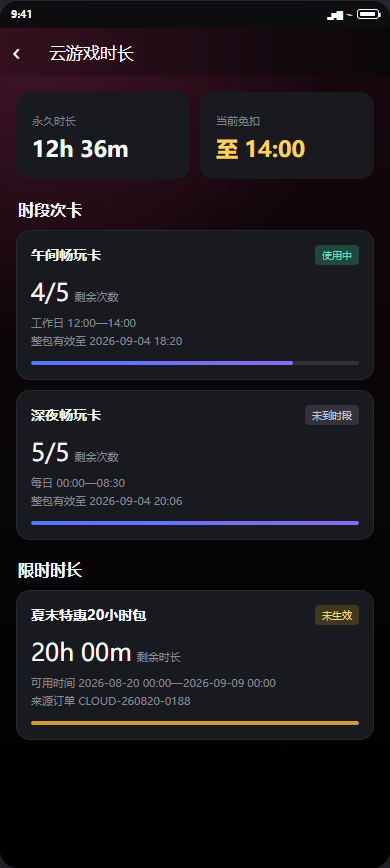
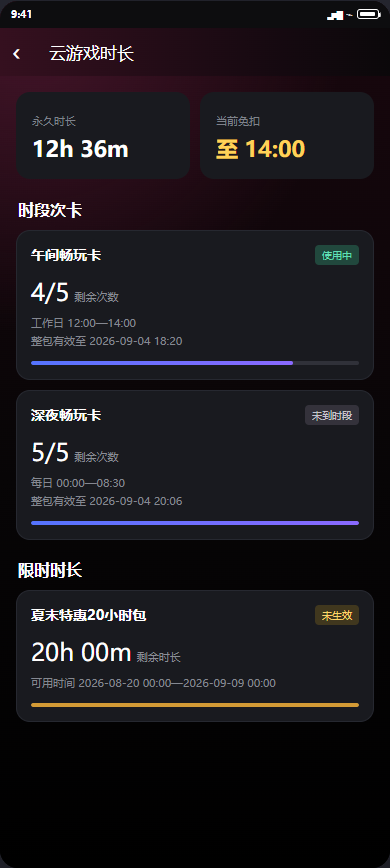
fix: deduct cloud time by user without order binding

Changed region(s): [[0.0308, 0.7776, 0.9538, 0.871]]

diff --git a/demos/云游戏/云游戏时段次卡与限时套餐demo.html b/demos/云游戏/云游戏时段次卡与限时套餐demo.html
@@ -53,7 +53,7 @@ button{cursor:pointer}
 .admin-modal-mask{position:absolute;inset:0;background:rgba(18,25,34,.48);z-index:30;display:flex;align-items:center;justify-content:center}.admin-modal{width:720px;max-height:680px;background:#fff;border-radius:7px;box-shadow:0 22px 70px rgba(0,0,0,.25);overflow:hidden;display:flex;flex-direction:column}.admin-modal.narrow{width:640px}.modal-head{height:52px;border-bottom:1px solid #e8ebef;display:flex;align-items:center;padding:0 20px}.modal-head h2{font-size:15px}.modal-x{margin-left:auto;border:0;background:transparent;font-size:20px;color:#87919c}.modal-body{padding:17px 20px;overflow:auto}.modal-grid{display:grid;grid-template-columns:1fr 1fr;gap:14px 18px}.modal-grid .span2{grid-column:1/-1}.modal-field label{display:block;font-size:11px;color:#5d6874;margin-bottom:6px}.required:before{content:'*';color:#ef5350;margin-right:3px}.help{font-size:10px;color:#929ba5;margin-top:4px;line-height:15px}.week-row{display:flex;gap:5px}.week{height:28px;min-width:37px;padding:0 7px;border:1px solid #d9dee5;border-radius:4px;background:#fff;color:#68737e;font-size:10px}.week.active{border-color:#3478f6;color:#3478f6;background:#eef5ff}.inline-inputs{display:flex;align-items:center;gap:7px}.inline-inputs .admin-input{flex:1}.modal-foot{height:58px;border-top:1px solid #e8ebef;display:flex;justify-content:flex-end;align-items:center;gap:9px;padding:0 20px}.section-line{grid-column:1/-1;font-size:12px;font-weight:600;color:#34414e;padding-top:2px;padding-bottom:2px;border-bottom:1px solid #eef0f2}.info-strip{grid-column:1/-1;background:#f3f7ff;border:1px solid #dce8ff;border-radius:5px;padding:9px 11px;color:#55708e;font-size:10px;line-height:16px}
 
 /* 后台用户时长 */
-.user-card{display:flex;align-items:center;padding:14px 16px;margin-bottom:12px}.user-card .avatar{width:38px;height:38px}.user-name{margin-left:10px}.user-name strong{font-size:13px}.user-name span{display:block;font-size:10px;color:#89939e;margin-top:3px}.metric-row{margin-left:auto;display:flex;gap:34px}.metric span{display:block;font-size:10px;color:#8b95a0}.metric strong{font-family:var(--number);font-size:18px;margin-top:3px;display:block}.record-table td{height:52px}.disabled-link{color:#adb4bc}.deduct-modal .record-summary{display:grid;grid-template-columns:1fr 1fr;gap:9px;background:#f7f8fa;border-radius:5px;padding:12px;margin-bottom:14px}.summary-item span{display:block;color:#8b95a0;font-size:10px}.summary-item strong{font-size:12px;margin-top:4px;display:block}.error-text{display:none;color:#e64e4e;font-size:10px;margin-top:4px}
+.user-card{display:flex;align-items:center;padding:14px 16px;margin-bottom:12px}.user-card .avatar{width:38px;height:38px}.user-name{margin-left:10px}.user-name strong{font-size:13px}.user-name span{display:block;font-size:10px;color:#89939e;margin-top:3px}.metric-row{margin-left:auto;display:flex;gap:34px}.metric>span{display:block;font-size:10px;color:#8b95a0}.metric-value{display:flex;align-items:center;gap:8px;margin-top:3px}.metric strong{font-family:var(--number);font-size:18px;display:block}.metric-action{border:0;background:transparent;color:#3478f6;font-size:10px}.record-table td{height:52px}.disabled-link{color:#adb4bc}.deduct-modal .record-summary{display:grid;grid-template-columns:1fr 1fr;gap:9px;background:#f7f8fa;border-radius:5px;padding:12px;margin-bottom:14px}.summary-item span{display:block;color:#8b95a0;font-size:10px}.summary-item strong{font-size:12px;margin-top:4px;display:block}.error-text{display:none;color:#e64e4e;font-size:10px;margin-top:4px}
 .admin-logo{padding:0 16px;font-size:16px;white-space:nowrap}.admin-logo i{width:26px;height:26px;border-radius:7px;font-size:11px;margin-right:8px;flex:none}
 /* V6.1.1 真实页面复刻层 */
 #capture-c-recharge{height:867px;border-radius:18px;background:#090509 url('./assets/cloud-time-pack-v611/15-portrait-recharge.png') center/100% 100% no-repeat}
@@ -197,7 +197,7 @@ button{cursor:pointer}
           <div class="record-card"><div class="record-top"><h3>午间畅玩卡</h3><span class="state-pill">使用中</span></div><div class="record-amount">4/5<small>剩余次数</small></div><div class="record-meta">工作日 12:00—14:00<br>整包有效至 2026-09-04 18:20</div><div class="progress"><i style="width:80%"></i></div></div>
           <div class="record-card"><div class="record-top"><h3>深夜畅玩卡</h3><span class="state-pill wait">未到时段</span></div><div class="record-amount">5/5<small>剩余次数</small></div><div class="record-meta">每日 00:00—08:30<br>整包有效至 2026-09-04 20:06</div><div class="progress"><i style="width:100%"></i></div></div>
           <div class="list-title">限时时长</div>
-          <div class="record-card"><div class="record-top"><h3>夏末特惠20小时包</h3><span class="state-pill pre">未生效</span></div><div class="record-amount">20h 00m<small>剩余时长</small></div><div class="record-meta">可用时间 2026-08-20 00:00—2026-09-09 00:00<br>来源订单 CLOUD-260820-0188</div><div class="progress"><i style="width:100%;background:#d39a35"></i></div></div>
+          <div class="record-card"><div class="record-top"><h3>夏末特惠20小时包</h3><span class="state-pill pre">未生效</span></div><div class="record-amount">20h 00m<small>剩余时长</small></div><div class="record-meta">可用时间 2026-08-20 00:00—2026-09-09 00:00</div><div class="progress"><i style="width:100%;background:#d39a35"></i></div></div>
         </div>
       </div>
     </div>
@@ -291,18 +291,18 @@ button{cursor:pointer}
     <div class="admin-shell" id="capture-b-deduct">
       <aside class="admin-side"><div class="admin-logo"><i>GH</i>GameHub运营平台</div><div class="side-group">小鸡云游戏</div><div class="side-item"><span class="nav-icon">▤</span>新云游戏充值商品</div><div class="side-item active"><span class="nav-icon">◉</span>用户管理</div><div class="side-item"><span class="nav-icon">⌁</span>操作记录</div></aside>
       <div class="admin-main"><header class="admin-top"><span class="crumb">用户管理 / 用户详情 / 云游戏时长</span><div class="top-user"><span class="avatar">客</span><span>客服主管⌄</span></div></header><main class="admin-content">
-        <div class="page-title-row"><h1>扣除云游戏时长</h1><button class="a-btn" style="margin-left:auto">查看操作记录</button></div>
-        <div class="panel user-card"><span class="avatar">Q</span><div class="user-name"><strong>用户Q***8</strong><span>UID：21900048 · 国内竖版</span></div><div class="metric-row"><div class="metric"><span>永久时长</span><strong>12h 36m</strong></div><div class="metric"><span>限时时长</span><strong id="limitedTimeMetric">21h 42m</strong></div></div></div>
-        <div class="panel table-wrap"><table class="data-table record-table"><colgroup><col style="width:100px"><col style="width:150px"><col style="width:145px"><col style="width:92px"><col style="width:105px"><col style="width:170px"><col style="width:85px"><col style="width:80px"></colgroup><thead><tr><th>记录ID</th><th>套餐名称</th><th>来源订单</th><th>总时长</th><th>剩余时长</th><th>使用窗口</th><th>状态</th><th>操作</th></tr></thead><tbody>
-          <tr><td>LT-890121</td><td>夏末特惠20小时包</td><td>CLOUD-260820-0188</td><td>20小时</td><td id="deductListRemaining">18小时30分</td><td>08-20 00:00—09-09 00:00</td><td><span class="type-tag">可使用</span></td><td><button class="op-link" onclick="openDeduct()">扣除</button></td></tr>
-          <tr><td>LT-889430</td><td>周末限时2小时</td><td>CLOUD-260801-1036</td><td>2小时</td><td>1小时42分</td><td>08-06 00:00—08-08 00:00</td><td><span class="type-tag gold">使用中</span></td><td><span class="disabled-link">不可扣除</span></td></tr>
-          <tr><td>LT-872501</td><td>端午限时10小时</td><td>CLOUD-260605-0042</td><td>10小时</td><td>0</td><td>06-07 18:00—06-09 06:00</td><td><span class="type-tag">已过期</span></td><td><span class="disabled-link">—</span></td></tr>
+        <div class="page-title-row"><h1>用户云游戏时长</h1><button class="a-btn" style="margin-left:auto">查看操作记录</button></div>
+        <div class="panel user-card"><span class="avatar">Q</span><div class="user-name"><strong>用户Q***8</strong><span>UID：21900048 · 国内竖版</span></div><div class="metric-row"><div class="metric"><span>永久时长</span><div class="metric-value"><strong id="permanentTimeMetric">12小时36分</strong><button class="metric-action" onclick="openDeduct('permanent')">扣除</button></div></div><div class="metric"><span>限时时长</span><div class="metric-value"><strong id="limitedTimeMetric">20小时12分</strong></div></div></div></div>
+        <div class="panel table-wrap"><table class="data-table record-table"><colgroup><col style="width:115px"><col style="width:190px"><col style="width:110px"><col style="width:125px"><col style="width:210px"><col style="width:100px"><col style="width:90px"></colgroup><thead><tr><th>记录ID</th><th>套餐名称</th><th>总时长</th><th>剩余时长</th><th>使用窗口</th><th>状态</th><th>操作</th></tr></thead><tbody>
+          <tr><td>LT-890121</td><td>夏末特惠20小时包</td><td>20小时</td><td id="deductListRemaining">18小时30分</td><td>08-20 00:00—09-09 00:00</td><td><span class="type-tag">可使用</span></td><td><button class="op-link" onclick="openDeduct('limited')">扣除</button></td></tr>
+          <tr><td>LT-889430</td><td>周末限时2小时</td><td>2小时</td><td>1小时42分</td><td>08-06 00:00—08-08 00:00</td><td><span class="type-tag gold">使用中</span></td><td><span class="disabled-link">不可扣除</span></td></tr>
+          <tr><td>LT-872501</td><td>端午限时10小时</td><td>10小时</td><td>0</td><td>06-07 18:00—06-09 06:00</td><td><span class="type-tag">已过期</span></td><td><span class="disabled-link">—</span></td></tr>
         </tbody></table><div class="pagination">共 3 条，每页20条 <span class="page-no">1</span></div></div>
       </main></div>
-      <div class="admin-modal-mask" id="deductMask"><div class="admin-modal narrow deduct-modal"><div class="modal-head"><h2>扣除限时时长</h2><button class="modal-x" onclick="closeDeduct()">×</button></div><div class="modal-body"><div class="record-summary"><div class="summary-item"><span>用户UID</span><strong>21900048</strong></div><div class="summary-item"><span>限时时长记录</span><strong>LT-890121</strong></div><div class="summary-item"><span>套餐名称</span><strong>夏末特惠20小时包</strong></div><div class="summary-item"><span>当前剩余</span><strong id="deductSummaryRemaining">18小时30分</strong></div></div><div class="modal-grid">
-        <div class="modal-field"><label class="required">扣除分钟数</label><input class="admin-input" id="deductMinutes" value="60"><div class="help" id="deductHelp">正整数，不得超过1110分钟</div><div class="error-text" id="deductError">请输入1—1110的整数</div></div><div class="modal-field"><label class="required">原因类型</label><select class="admin-select" id="deductReason" onchange="updateDeductReason()"><option>退款回收</option><option>账号修正</option><option>违规处理</option><option>其他</option></select></div><div class="modal-field span2"><label class="required" id="relationLabel">关联订单号</label><input class="admin-input" id="relationNo" value="CLOUD-260820-0188"></div><div class="modal-field span2"><label id="noteLabel">补充说明</label><textarea class="admin-input" id="deductNote" style="height:72px;padding-top:8px;resize:none" placeholder="0—100字">活动订单退款，回收未使用时长</textarea><div class="error-text" id="noteError">选择“其他”时必须填写补充说明</div></div><div class="info-strip">提交时重新校验记录状态与余额。使用中记录不可扣除；与游戏消耗冲突时本次操作失败并刷新余额。</div>
+      <div class="admin-modal-mask" id="deductMask"><div class="admin-modal narrow deduct-modal"><div class="modal-head"><h2 id="deductModalTitle">扣除限时时长</h2><button class="modal-x" onclick="closeDeduct()">×</button></div><div class="modal-body"><div class="record-summary"><div class="summary-item"><span>用户UID</span><strong>21900048</strong></div><div class="summary-item"><span>时长类型</span><strong id="deductTypeValue">限时时长</strong></div><div class="summary-item"><span id="deductRecordLabel">限时时长记录</span><strong id="deductRecordValue">LT-890121</strong></div><div class="summary-item"><span>当前剩余</span><strong id="deductSummaryRemaining">18小时30分</strong></div></div><div class="modal-grid">
+        <div class="modal-field"><label class="required">扣除分钟数</label><input class="admin-input" id="deductMinutes" value="60"><div class="help" id="deductHelp">正整数，不得超过1110分钟</div><div class="error-text" id="deductError">请输入1—1110的整数</div></div><div class="modal-field"><label class="required">原因类型</label><select class="admin-select" id="deductReason" onchange="updateDeductReason()"><option>运营调整</option><option>账号修正</option><option>违规处理</option><option>其他</option></select></div><div class="modal-field span2"><label id="noteLabel">补充说明</label><textarea class="admin-input" id="deductNote" style="height:72px;padding-top:8px;resize:none" placeholder="0—100字">按用户时长进行调整</textarea><div class="error-text" id="noteError">选择“其他”时必须填写补充说明</div></div><div class="info-strip">提交时重新校验用户时长余额。限时时长使用中不可扣除；与游戏消耗冲突时本次操作失败并刷新余额。</div>
       </div></div><div class="modal-foot"><button class="a-btn" onclick="closeDeduct()">取消</button><button class="a-btn red" onclick="submitDeduct()">确认扣除</button></div></div></div>
-      <div class="admin-modal-mask" id="deductConfirmMask" style="display:none"><div class="admin-modal confirm-card"><div class="modal-head"><h2>确认扣除限时时长</h2><button class="modal-x" onclick="closeDeductConfirm()">×</button></div><div class="modal-body"><div class="confirm-symbol">!</div><div class="confirm-copy"><strong id="deductConfirmTitle">确认扣除60分钟？</strong><span>扣除后无法自动恢复，系统将记录操作人、原因和关联单号。</span></div></div><div class="modal-foot"><button class="a-btn" onclick="closeDeductConfirm()">返回修改</button><button class="a-btn red" onclick="confirmDeduct()">确认扣除</button></div></div></div>
+      <div class="admin-modal-mask" id="deductConfirmMask" style="display:none"><div class="admin-modal confirm-card"><div class="modal-head"><h2 id="deductConfirmHead">确认扣除限时时长</h2><button class="modal-x" onclick="closeDeductConfirm()">×</button></div><div class="modal-body"><div class="confirm-symbol">!</div><div class="confirm-copy"><strong id="deductConfirmTitle">确认扣除60分钟？</strong><span>扣除后无法自动恢复，系统将记录用户、时长类型、操作人和扣除原因。</span></div></div><div class="modal-foot"><button class="a-btn" onclick="closeDeductConfirm()">返回修改</button><button class="a-btn red" onclick="confirmDeduct()">确认扣除</button></div></div></div>
       <div class="toast" id="deductToast">已扣除60分钟，剩余17小时30分</div>
     </div>
   </section>
@@ -340,14 +340,14 @@ function configureProductMode(mode){var isQueue=mode==='queue';document.getEleme
 function openQueueConfig(){showScene('b-slot');configureProductMode('queue')}
 document.getElementById('slotProductType').addEventListener('change',function(){configureProductMode(this.value==='普通时长包'?'queue':'slot')});
 document.querySelectorAll('.week').forEach(function(btn){btn.addEventListener('click',function(){btn.classList.toggle('active')})});
-function openDeduct(){document.getElementById('deductMask').style.display='flex'}
+function openDeduct(type){currentDeductType=type||'limited';var isLimited=currentDeductType==='limited',max=isLimited?limitedMinutes:permanentMinutes;document.getElementById('deductModalTitle').textContent=isLimited?'扣除限时时长':'扣除永久时长';document.getElementById('deductConfirmHead').textContent=isLimited?'确认扣除限时时长':'确认扣除永久时长';document.getElementById('deductTypeValue').textContent=isLimited?'限时时长':'永久时长';document.getElementById('deductRecordLabel').textContent=isLimited?'限时时长记录':'时长账户';document.getElementById('deductRecordValue').textContent=isLimited?'LT-890121':'用户永久时长';document.getElementById('deductSummaryRemaining').textContent=formatMinutes(max);document.getElementById('deductHelp').textContent='正整数，不得超过'+max+'分钟';document.getElementById('deductMinutes').value=Math.min(60,max);document.getElementById('deductMask').style.display='flex'}
 function closeDeduct(){document.getElementById('deductMask').style.display='none'}
-var limitedMinutes=1110,pendingDeduct=0;
-function updateDeductReason(){var reason=document.getElementById('deductReason').value,isRefund=reason==='退款回收',isOther=reason==='其他';document.getElementById('relationLabel').textContent=isRefund?'关联订单号':'关联工单号';document.getElementById('relationNo').placeholder=isRefund?'请输入订单号':'请输入工单号';document.getElementById('noteLabel').className=isOther?'required':'';document.getElementById('noteError').style.display='none'}
+var permanentMinutes=756,limitedMinutes=1110,pendingDeduct=0,currentDeductType='limited';
+function updateDeductReason(){var isOther=document.getElementById('deductReason').value==='其他';document.getElementById('noteLabel').className=isOther?'required':'';document.getElementById('noteError').style.display='none'}
 function formatMinutes(v){var h=Math.floor(v/60),m=v%60;return h?(h+'小时'+(m?m+'分':'')):(m+'分钟')}
-function submitDeduct(){var input=document.getElementById('deductMinutes'),v=Number(input.value),err=document.getElementById('deductError'),note=document.getElementById('deductNote'),noteErr=document.getElementById('noteError'),relation=document.getElementById('relationNo');if(!Number.isInteger(v)||v<1||v>limitedMinutes){err.textContent='请输入1—'+limitedMinutes+'的整数';err.style.display='block';input.style.borderColor='#e64e4e';return}err.style.display='none';input.style.borderColor='';if(!relation.value.trim()){relation.style.borderColor='#e64e4e';return}relation.style.borderColor='';if(document.getElementById('deductReason').value==='其他'&&!note.value.trim()){noteErr.style.display='block';note.style.borderColor='#e64e4e';return}noteErr.style.display='none';note.style.borderColor='';pendingDeduct=v;document.getElementById('deductConfirmTitle').textContent='确认扣除'+v+'分钟？';document.getElementById('deductConfirmMask').style.display='flex'}
+function submitDeduct(){var input=document.getElementById('deductMinutes'),v=Number(input.value),max=currentDeductType==='limited'?limitedMinutes:permanentMinutes,err=document.getElementById('deductError'),note=document.getElementById('deductNote'),noteErr=document.getElementById('noteError');if(!Number.isInteger(v)||v<1||v>max){err.textContent='请输入1—'+max+'的整数';err.style.display='block';input.style.borderColor='#e64e4e';return}err.style.display='none';input.style.borderColor='';if(document.getElementById('deductReason').value==='其他'&&!note.value.trim()){noteErr.style.display='block';note.style.borderColor='#e64e4e';return}noteErr.style.display='none';note.style.borderColor='';pendingDeduct=v;document.getElementById('deductConfirmTitle').textContent='确认从该用户'+(currentDeductType==='limited'?'限时时长':'永久时长')+'扣除'+v+'分钟？';document.getElementById('deductConfirmMask').style.display='flex'}
 function closeDeductConfirm(){document.getElementById('deductConfirmMask').style.display='none'}
-function confirmDeduct(){limitedMinutes-=pendingDeduct;var text=formatMinutes(limitedMinutes);document.getElementById('deductListRemaining').textContent=text;document.getElementById('deductSummaryRemaining').textContent=text;document.getElementById('limitedTimeMetric').textContent=formatMinutes(limitedMinutes+192);document.getElementById('deductHelp').textContent='正整数，不得超过'+limitedMinutes+'分钟';document.getElementById('deductMinutes').value=Math.min(60,limitedMinutes);closeDeductConfirm();closeDeduct();showToast('deductToast','已扣除'+pendingDeduct+'分钟，剩余'+text);pendingDeduct=0}
+function confirmDeduct(){var isLimited=currentDeductType==='limited';if(isLimited)limitedMinutes-=pendingDeduct;else permanentMinutes-=pendingDeduct;var remaining=isLimited?limitedMinutes:permanentMinutes,text=formatMinutes(remaining);if(isLimited){document.getElementById('deductListRemaining').textContent=text;document.getElementById('limitedTimeMetric').textContent=formatMinutes(limitedMinutes+102)}else document.getElementById('permanentTimeMetric').textContent=text;document.getElementById('deductSummaryRemaining').textContent=text;document.getElementById('deductHelp').textContent='正整数，不得超过'+remaining+'分钟';document.getElementById('deductMinutes').value=Math.min(60,remaining);closeDeductConfirm();closeDeduct();showToast('deductToast','已扣除'+pendingDeduct+'分钟，剩余'+text);pendingDeduct=0}
 window.closeActivation=closeActivation;window.openActivation=openActivation;window.setReminder=setReminder;window.openDeduct=openDeduct;window.openQueueConfig=openQueueConfig;window.updateDeductReason=updateDeductReason;window.payLandscapeSlot=payLandscapeSlot;window.closeLandscapeActivation=closeLandscapeActivation;window.activateLandscapePass=activateLandscapePass;
 </script>
 </body>
